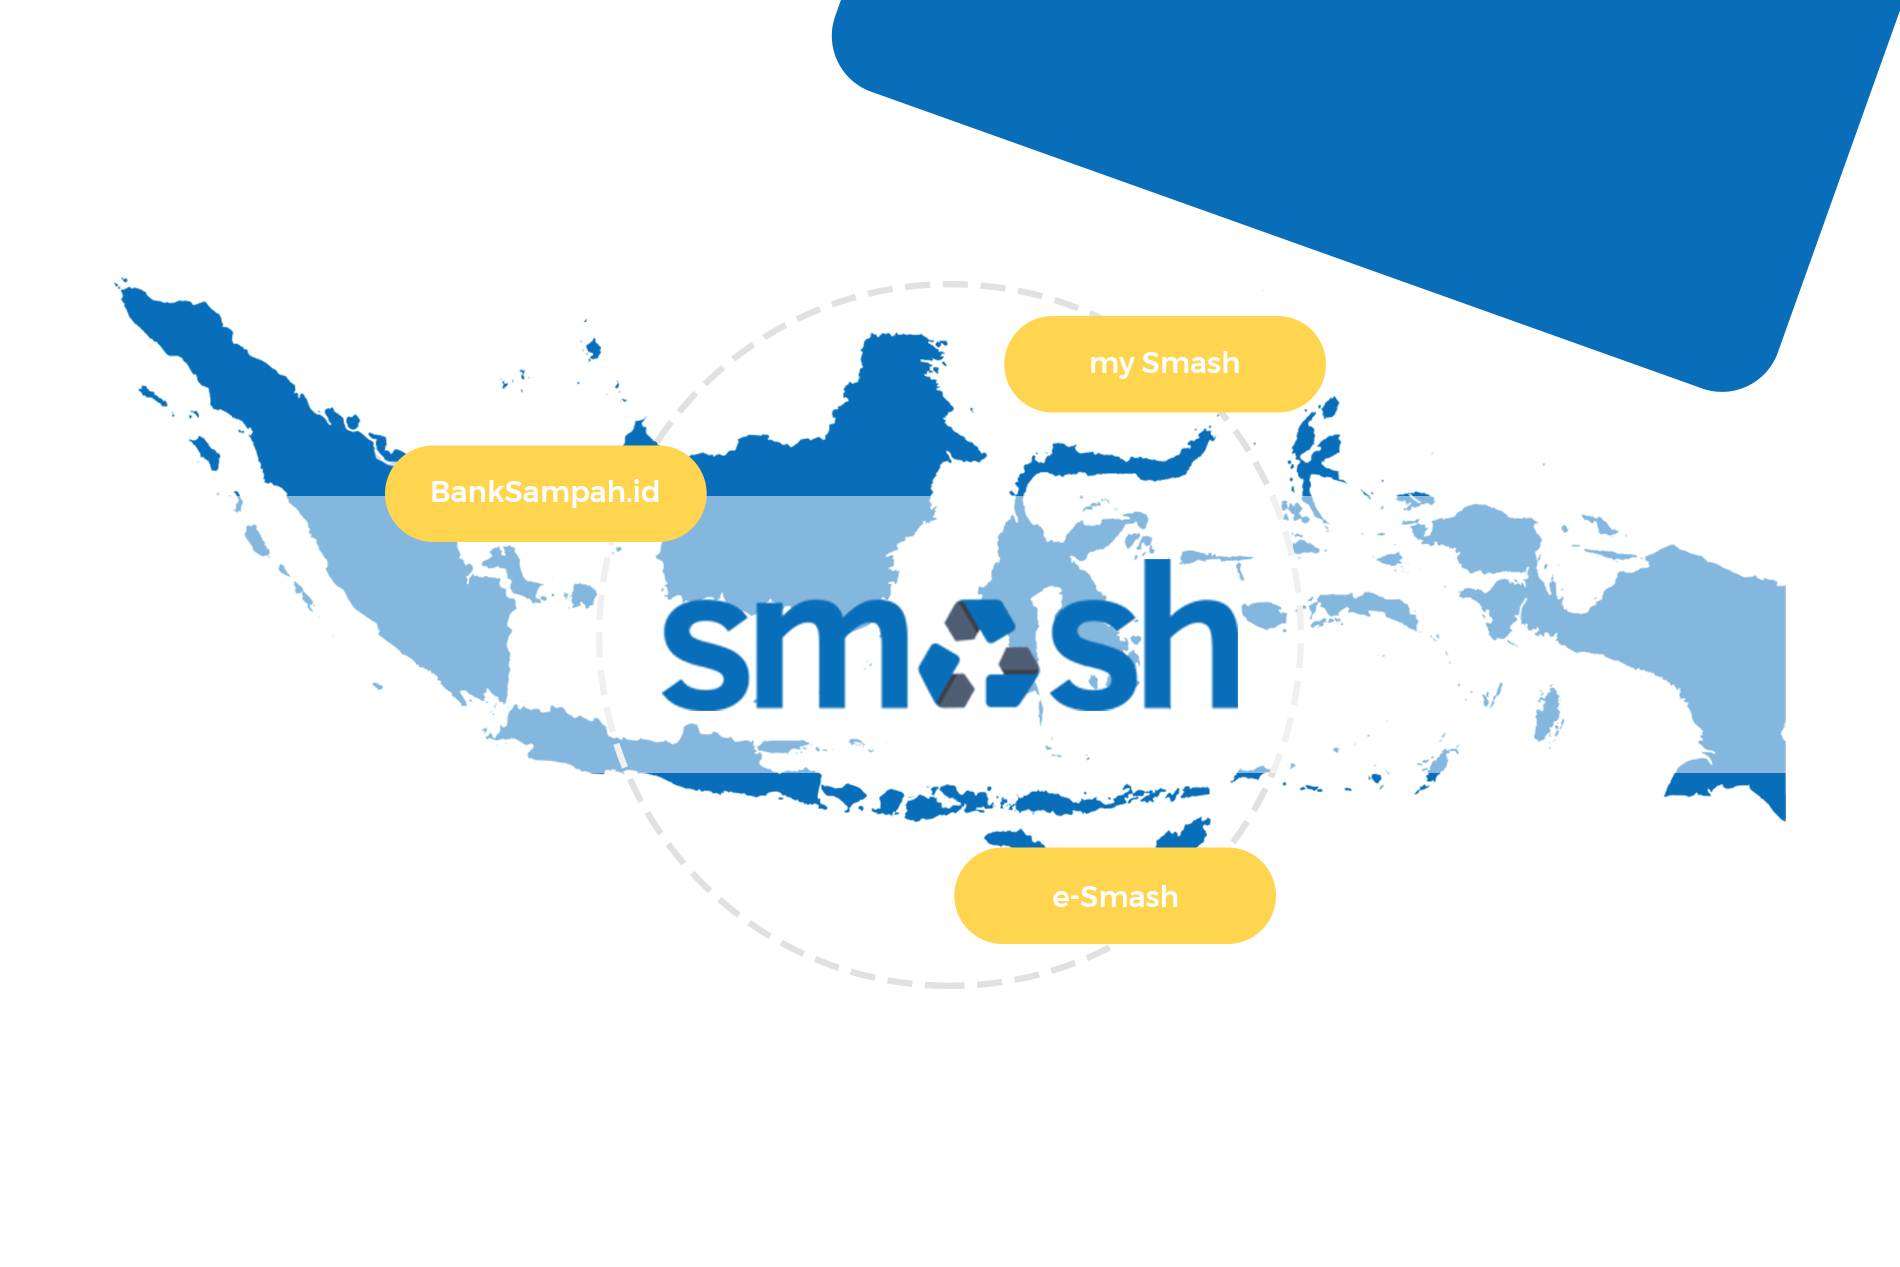
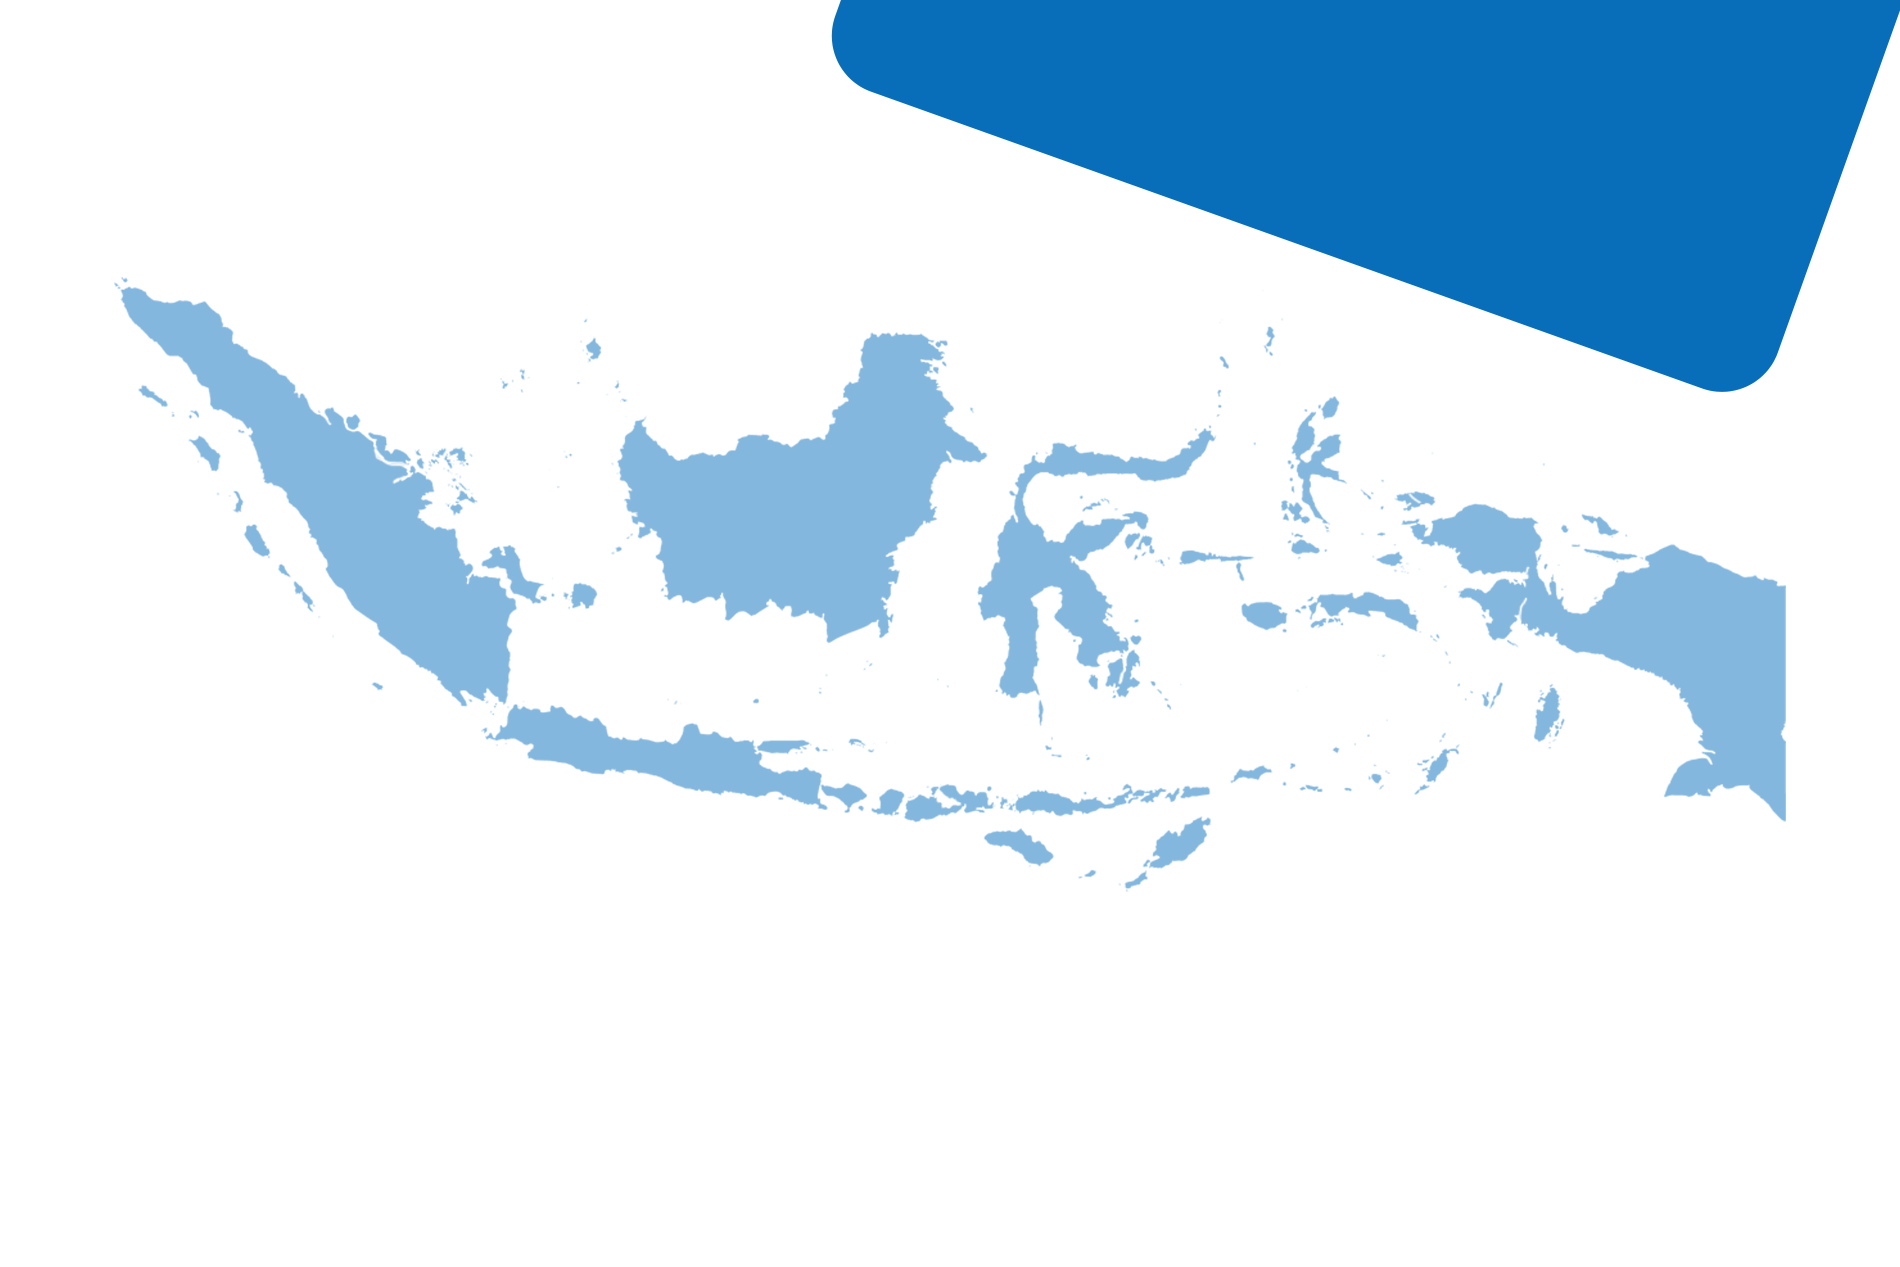
memperbaiki header dan responsif

diff --git a/index.html b/index.html
@@ -19,7 +19,7 @@
 
     <nav class="navbar navbar-expand-lg navbar-dark ftco_navbar bg-dark ftco-navbar-light" id="ftco-navbar">
       <div class="container">
-        <a class="navbar-brand" href="index.html"><img src="images/logo.png"></img></a>
+        <a class="navbar-brand" href="index.html"><img style="width: 60%; height: 20%;" src="images/logo.png"/></a>
         <button class="navbar-toggler" type="button" data-toggle="collapse" data-target="#ftco-nav" aria-controls="ftco-nav" aria-expanded="false" aria-label="Toggle navigation">
           <span class="oi oi-menu"></span> Menu
         </button>
@@ -39,7 +39,22 @@
     <section class="ftco-cover ftco-slant" style="background-image: url(images/bg_3.png);" id="section-home">
       <div class="container">
         <div class="row align-items-center justify-content-center text-center ftco-vh-100">
-
+          <div class="col-md-10">
+            <h1 class="ftco-heading ftco-animate"><img src="images/logo.png"></h1>
+            <br>
+            <br>
+            <div class="row">
+              <div class="col-lg-4 mb-4 ftco-animate">
+                <p><a href="https://free-template.co/" target="_blank" class="btn btn-primary ftco-animate">BankSampah.id</a></p>
+              </div>
+              <div class="col-lg-4 mb-5 ftco-animate">
+                <p><a href="https://free-template.co/" target="_blank" class="btn btn-primary ftco-animate">BankSampah.id</a></p>
+              </div>
+              <div class="col-lg-4 mb-5 ftco-animate">
+                <p><a href="https://free-template.co/" target="_blank" class="btn btn-primary ftco-animate">BankSampah.id</a></p>
+              </div>
+            </div>
+          </div>
         </div>
       </div>
     </section>
@@ -63,10 +78,10 @@
               <h2>Anda Bank Sampah?</h2>
               <br>
               <br>
-              <p class="ftco-price-per text-center"><div class="ftco-icon mb-3"><img src="images/iconbanksampah.png"/></div></p>
+              <p class="ftco-price-per text-center"><div class="ftco-icon mb-3"><img class="iconbanksampah" src="images/iconbanksampah.png"/></div></p>
               <br>
               <p><a href="#" class="btn btn-primary btn-block">BankSampah.id</a></p>
-              <p><a href="#"><img src="images/btnapp.png" class="btn-block"/></a></p>
+              <p><a href="#"><img class="buttongplay" src="images/btnapp.png" class="btn-block"/></a></p>
             </div>
           </div>
           <div class="w-100 clearfix d-xl-none"></div>
@@ -74,10 +89,10 @@
             <div class="ftco-pricing">
               <h2>Anda Memiliki Sampah yang Ingin Dijual?</h2>
               <br>
-              <p class="ftco-price-per text-center"><div class="ftco-icon mb-3"><img src="images/iconsampah.png"/></div></p>
+              <p class="ftco-price-per text-center"><div class="ftco-icon mb-3"><img class="iconsampah" src="images/iconsampah.png"/></div></p>
               <br>
               <p><a href="#" class="btn btn-primary btn-block">my Smash</a></p>
-              <p><a href="#"><img src="images/btnapp.png" class="btn-block"/></a></p>
+              <p><a href="#"><img class="buttongplay" src="images/btnapp.png" class="btn-block"/></a></p>
             </div>
           </div>
           <div class="col-md bg-white p-5 m-2 text-center mb-2 ftco-animate">
@@ -85,7 +100,7 @@
               <h2>Anda Pemerintah Daerah?</h2>
               <br>
               <br>
-              <p class="ftco-price-per text-center"><div class="ftco-icon mb-3"><img src="images/iconpemerintah.png"/></div></p>
+              <p class="ftco-price-per text-center"><div class="ftco-icon mb-3"><img class="iconpemerintah" src="images/iconpemerintah.png"/></div></p>
               <br>
               <p><a href="#" class="btn btn-primary btn-block">E-Smash</a></p>
             </div>

diff --git a/css/style.css b/css/style.css
@@ -22,8 +22,16 @@ img{
   -webkit-transition: .3s all ease;
   -o-transition: .3s all ease;
   transition: .3s all ease;
+
+}
+.iconbanksampah, .iconsampah, .iconpemerintah{
   width: 60%;
-  height: 20%;
+  height: 60%;
+}
+
+.buttongplay{
+  width: 100%;
+  height: 50%;
 }
 
 h1, h2, h3, h4, h5,
